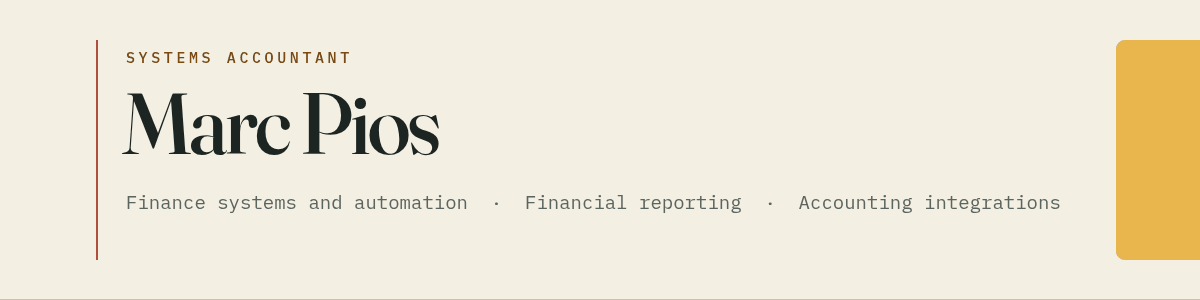
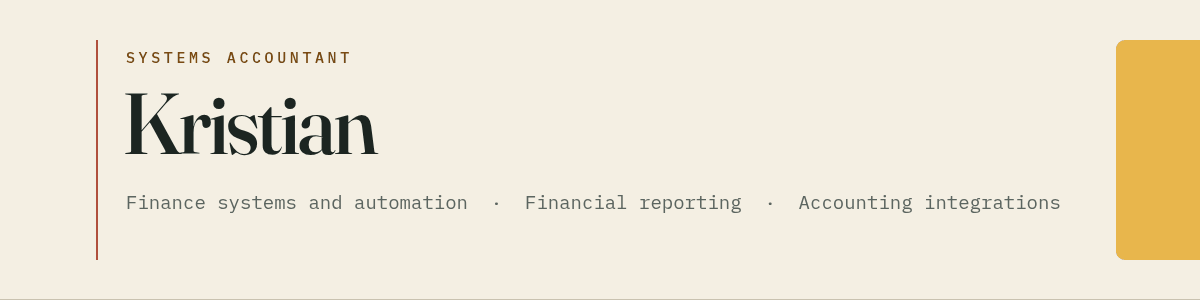
docs: use Kristian only
The banner and the introduction named a legal name the profile does not need.
The header is re-rendered with Kristian and the intro reads in the first
person, with no other change to the copy.

Changed region(s): [[0.0925, 0.3, 0.37, 0.54]]

diff --git a/README.md b/README.md
@@ -1,10 +1,10 @@
 <div align="center">
-  <img src="./img/header.png" width="100%" alt="Marc Pios, Systems Accountant — finance systems and automation, financial reporting, accounting integrations" />
+  <img src="./img/header.png" width="100%" alt="Kristian, Systems Accountant — finance systems and automation, financial reporting, accounting integrations" />
 </div>
 
 ## Finance systems, grounded in accounting
 
-I'm Marc Pios, also known as Kristian. I'm a Systems Accountant: fractional finance management and bank general-ledger work, plus the software that removes the manual steps around them.
+I'm Kristian, a Systems Accountant: fractional finance management and bank general-ledger work, plus the software that removes the manual steps around them.
 
 Automation only earns its place when it stays auditable. In practice: defined business rules, a named approver, a written record of what changed, and a ledger that still balances after the run. When a coding agent drafts part of a workflow, the accounting rules and the approval step are written down and checked by a person.
 
